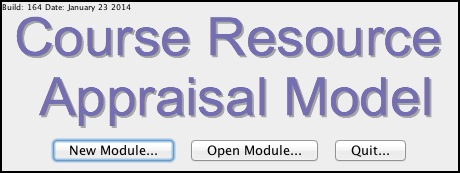
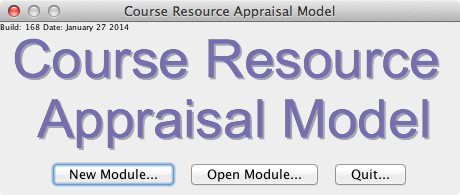
Add decoration to StartupDialog. Update the image of the startup dialog on the web page. Change the web page to include a download link for the Windows binary. Fix tooltip offset bug in LineItemPanel.

diff --git a/CRAM-UI/preview-application.html b/CRAM-UI/preview-application.html
@@ -98,8 +98,8 @@ $Revision$
 	<p> A prototype version of the tool (known as the CRAM tool) is now
 	    available for user evaluation purposes. To launch the CRAM Tool,
 	    click on the &lsquo;Launch&rsquo; button below. Alternatively, you can 
-	    <a href="CRAM%20Tool.zip">download</a> 
-	    a stand-alone Macintosh version of the tool. Both <u>require</u> the 
+	    download a stand-alone <a href="CRAM%20Tool.zip">Macintosh</a> 
+            or <a href="CRAM.exe">Windows</a> version of the tool. Both <u>require</u> the 
     <a title="Get Java..." href="http://www.java.com/en/download/index.jsp">current
         version of Java</a> 
     installed on your system. The current

diff --git a/CRAM-UI/src/uk/ac/lkl/cram/ui/StartupDialog.java b/CRAM-UI/src/uk/ac/lkl/cram/ui/StartupDialog.java
@@ -1,9 +1,7 @@
 package uk.ac.lkl.cram.ui;
 
 
-import java.awt.Color;
 import java.util.ResourceBundle;
-import javax.swing.BorderFactory;
 import javax.swing.JButton;
 
 /**
@@ -25,7 +23,6 @@ public class StartupDialog extends javax.swing.JDialog {
     public StartupDialog(java.awt.Frame parent, boolean modal) {
         super(parent, modal);
         initComponents();
-        getRootPane().setBorder(BorderFactory.createLineBorder(Color.black, 2));
         StringBuilder builder = new StringBuilder(10);
         builder.append("Build: ");
         builder.append(bundle.getString("build.version"));
@@ -52,7 +49,6 @@ public class StartupDialog extends javax.swing.JDialog {
 
         setDefaultCloseOperation(javax.swing.WindowConstants.DO_NOTHING_ON_CLOSE);
         setTitle("Course Resource Appraisal Model");
-        setUndecorated(true);
         setResizable(false);
 
         iconLabel.setIcon(new javax.swing.ImageIcon(getClass().getResource("/uk/ac/lkl/cram/ui/CRAM.png"))); // NOI18N

diff --git a/CRAM-UI/src/uk/ac/lkl/cram/ui/CRAMApplication.java b/CRAM-UI/src/uk/ac/lkl/cram/ui/CRAMApplication.java
@@ -53,9 +53,10 @@ public class CRAMApplication {
         // Get the global logger to configure it
         Logger logger = Logger.getLogger("uk.ac.lkl.cram");
         logger.setLevel(Level.ALL);
-        FileHandler txtHandler = new FileHandler("CRAMLog.txt");
-        txtHandler.setFormatter(new SimpleFormatter());
-        logger.addHandler(txtHandler);
+        //TODO
+//        FileHandler txtHandler = new FileHandler("CRAMLog.txt");
+//        txtHandler.setFormatter(new SimpleFormatter());
+//        logger.addHandler(txtHandler);
                 
         System.setProperty("apple.awt.graphics.EnableQ2DX", "true");
         System.setProperty("apple.laf.useScreenMenuBar", "true");

diff --git a/CRAM-UI/src/uk/ac/lkl/cram/ui/LineItemPanel.java b/CRAM-UI/src/uk/ac/lkl/cram/ui/LineItemPanel.java
@@ -25,7 +25,7 @@ import uk.ac.lkl.cram.ui.table.ToolTipHeader;
 @SuppressWarnings("serial")
 public class LineItemPanel extends javax.swing.JPanel {
     private static final Logger LOGGER = Logger.getLogger(LineItemPanel.class.getName());
-    private static final String[] toolTipStr = {"","","","non-weekly hours + (weekly hours * number of weeks)"};
+    private static final String[] toolTipStr = {"","","","","non-weekly hours + (weekly hours * number of weeks)"};
     private static final DecimalFormat DECIMAL_FORMATTER = new DecimalFormat( "#.0" );
 
     public static final String PROP_SELECTED_LINEITEM = " selected_line_item";
